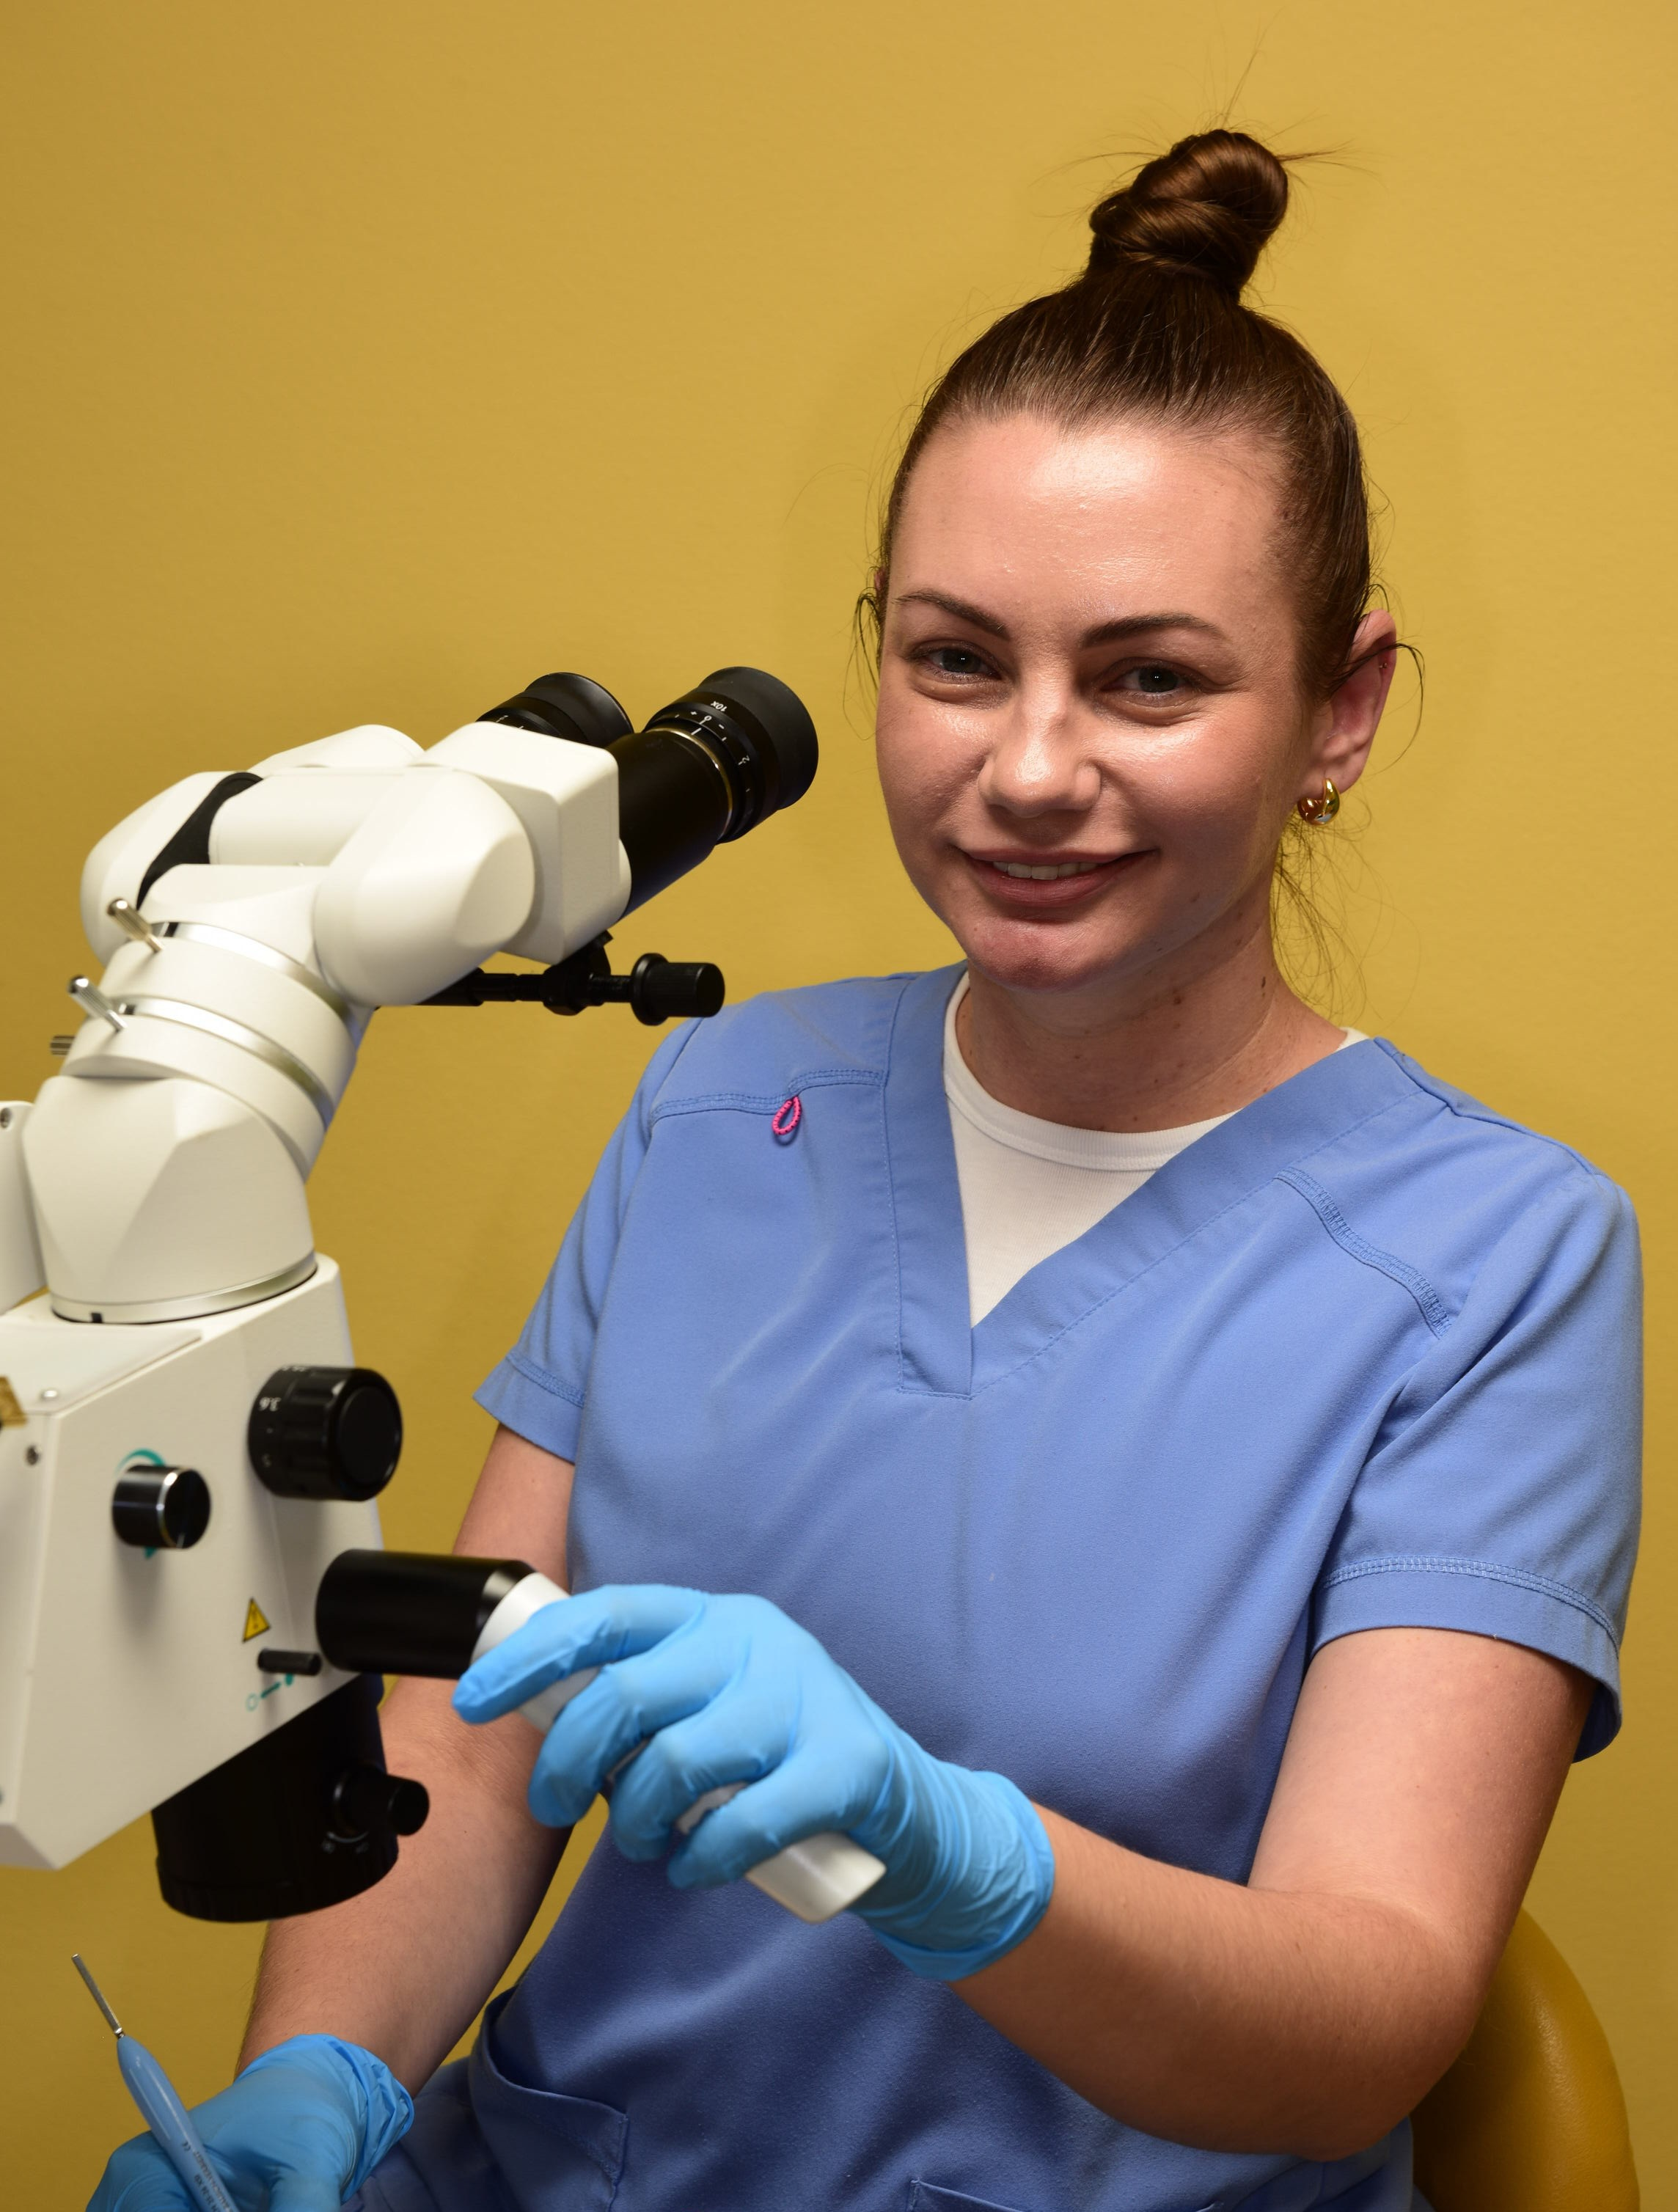
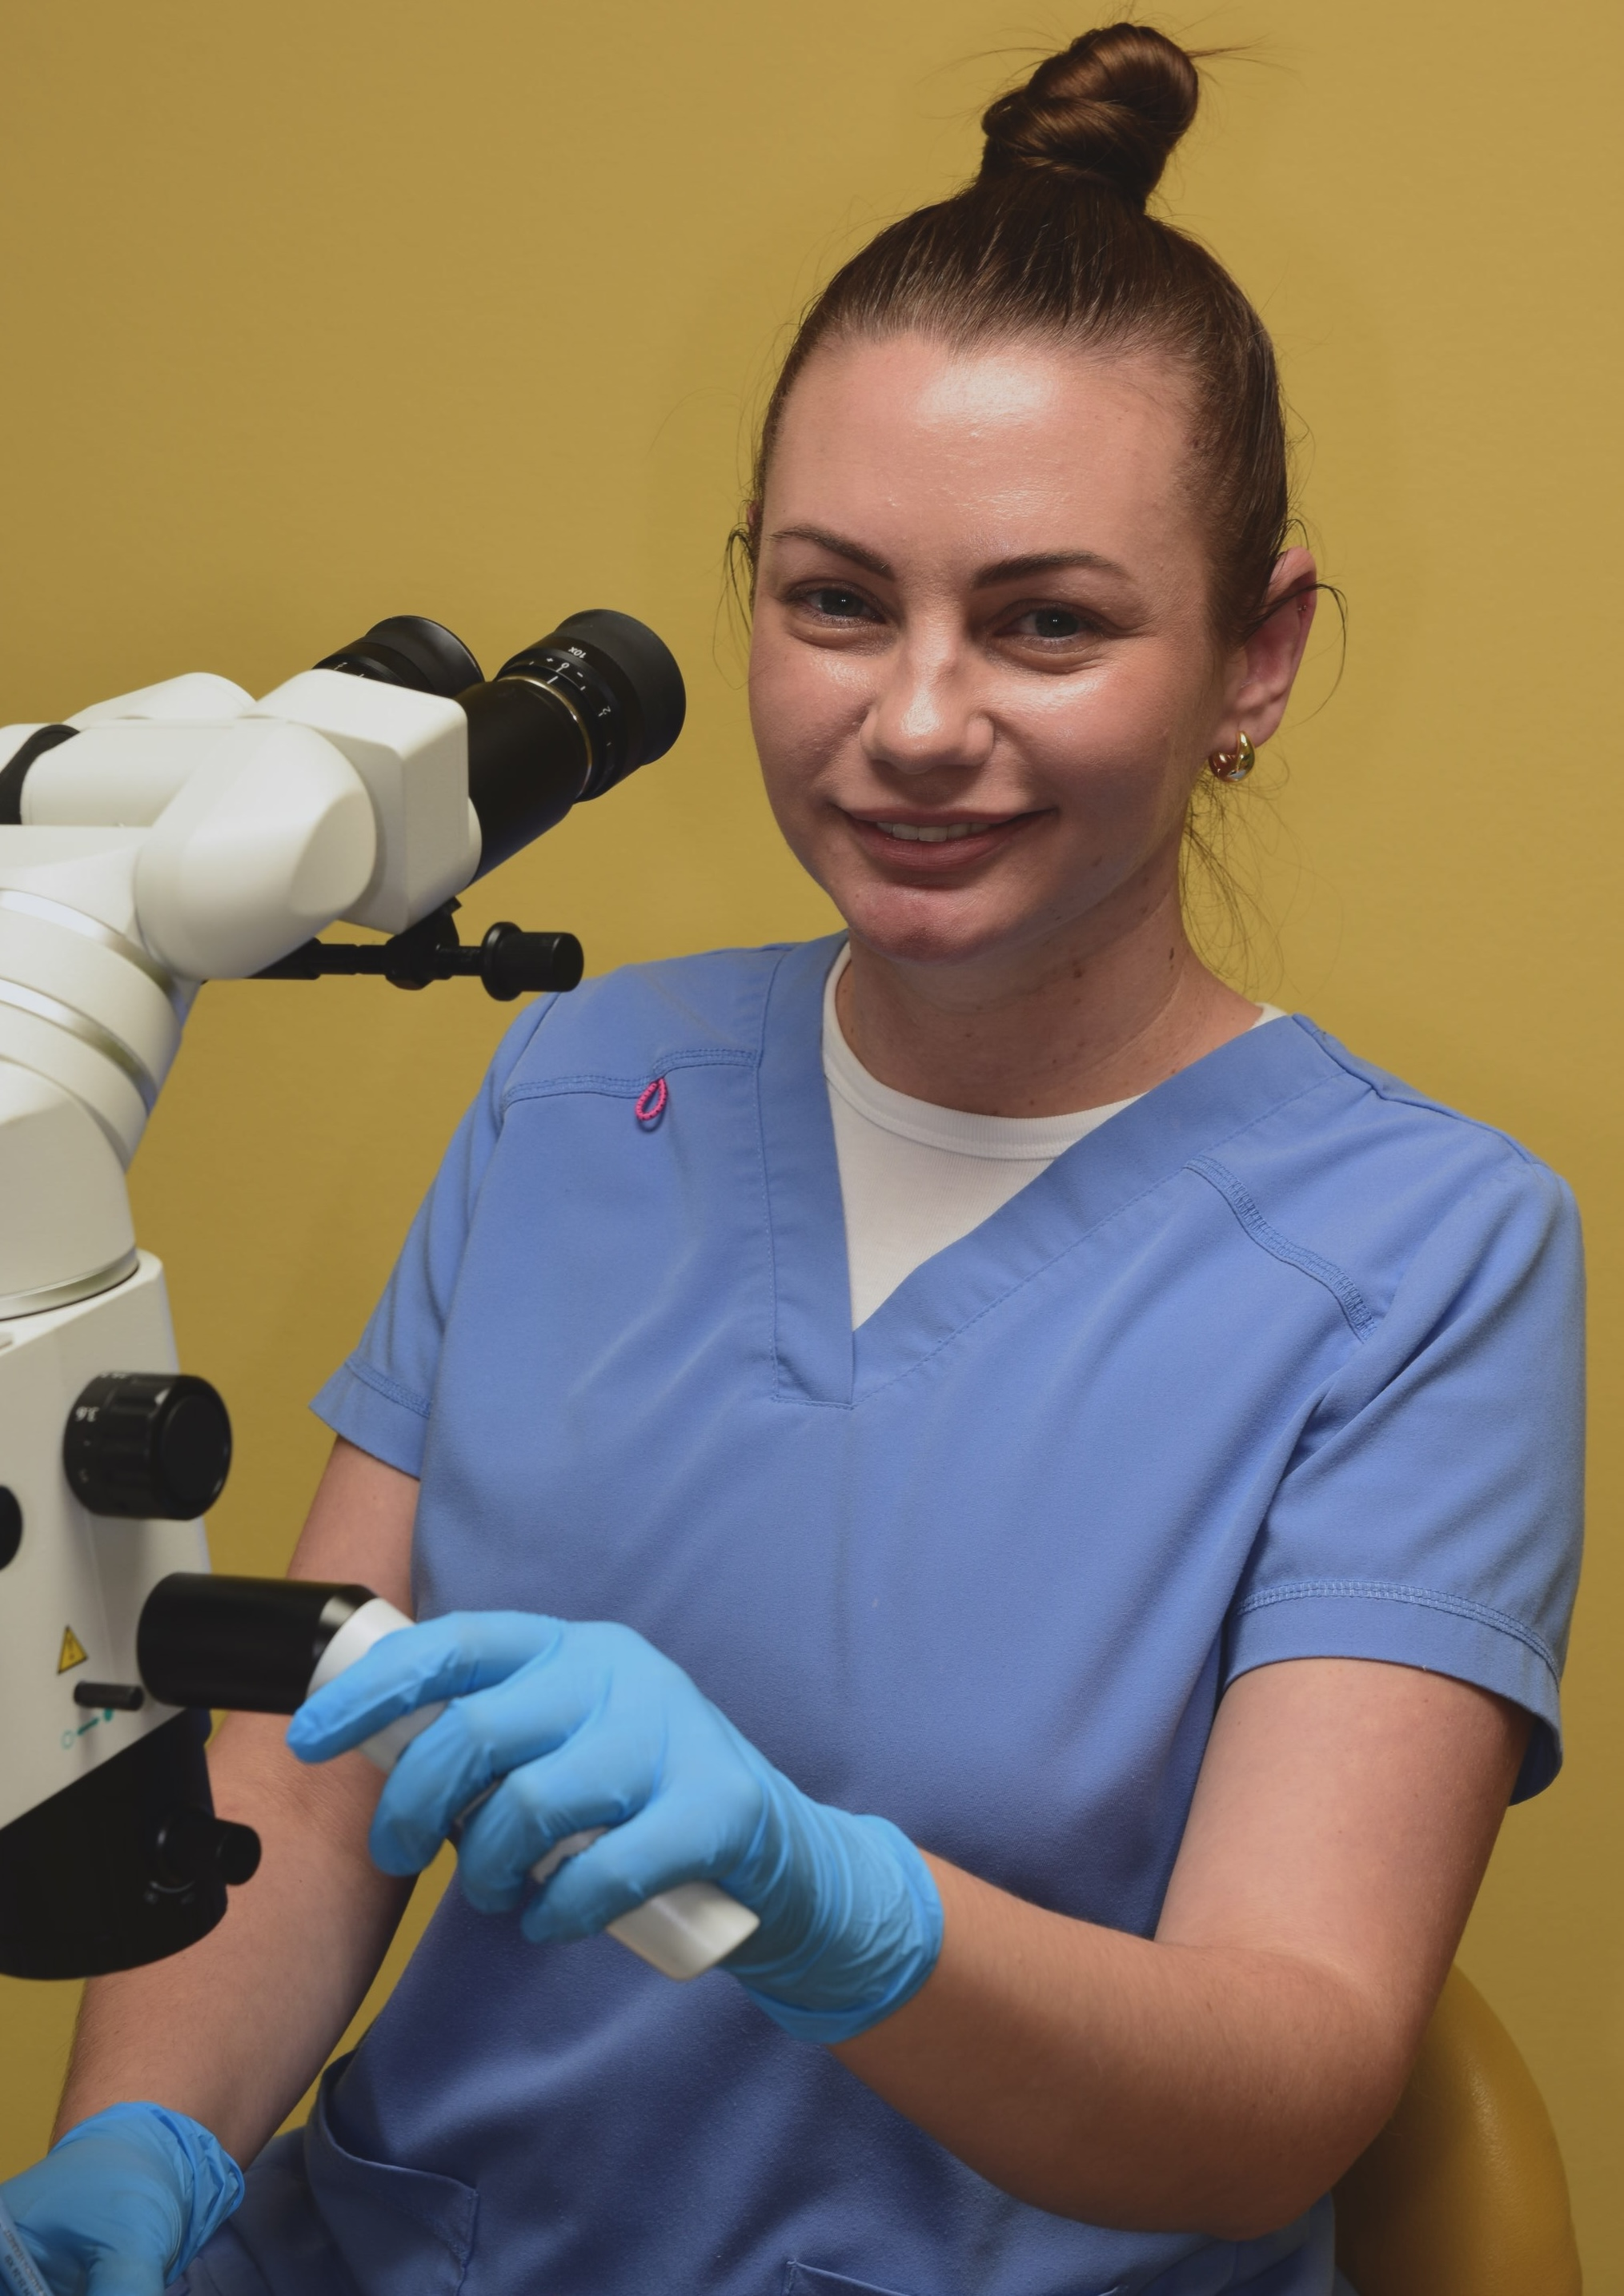
image_quality

diff --git a/src/app/services/ServicesPageClient.tsx b/src/app/services/ServicesPageClient.tsx
@@ -5,12 +5,12 @@ import Image from "next/image";
 import {CheckCircle, Phone} from "lucide-react";
 import {Button} from "@/components/ui/button";
 import {Card, CardContent} from "@/components/ui/card";
-import servicesImage from "@/components/images/services.webp";
+import servicesImage from "@/components/images/services.jpg";
 import general from "@/components/images/general.webp";
-import cosmetic from "@/components/images/cosmetic.webp";
+import cosmetic from "@/components/images/cosmetic.jpg";
 import paradent from "@/components/images/paradent.webp";
 import surgery from "@/components/images/surgery.webp";
-import orthodental from "@/components/images/orthodental.webp";
+import orthodental from "@/components/images/orthodental.jpg";
 import implant from "@/components/images/implant.webp";
 import prosthesis from "@/components/images/prosthesis.webp";
 
@@ -28,14 +28,15 @@ export default function ServicesPageClient() {
             treatments: [
                 "Професійна чистка",
                 "Пломбування зубів",
-                "Лікування кореневих каналів під мікроскопом",
-                "Переліковування раніше лікованих каналів",
+                "Лікування кореневих каналів",
+                "Переліковування раніше лікованих кореневих каналів",
+                "Використання стоматологічного мікроскопу",
             ],
         },
         {
             title: "Косметична стоматологія",
             description:
-                "Сучасні естетичні рішення для створення ідеальної усмішки — від відбілювання до трансформації.",
+                "Сучасні естетичні рішення для створення ідеальної усмішки: від відбілювання до повної трансформації.",
             image: cosmetic,
             treatments: [
                 "Відбілювання зубів",
@@ -47,60 +48,73 @@ export default function ServicesPageClient() {
         {
             title: "Ортодонтія",
             description:
-                "Вирівнювання зубів для дітей та дорослих за допомогою сучасних методів.",
+                "Ефективне та комфортне вирівнювання зубів дорослим і дітям завдяки сучасним методам.",
             image: orthodental,
             treatments: [
-                "Традиційні брекети",
-                "Самоліговані системи",
+                "Традиційні брекети, в тому числі самоліговані",
+                "Елайнери",
                 "Трейнери",
-                "Мікроімпланти",
+                "Хайрекси",
+                "Ортодонтичні мікроімпланти",
                 "Пластинки",
             ],
         },
         {
             title: "Хірургія порожнини рота",
             description:
-                "Безпечні втручання з турботою про комфорт пацієнта.",
+                "Безпечні хірургічні втручання з особливою увагою до вашого комфорту.",
             image: surgery,
             treatments: [
+                "Видалення ретинованих зубів",
                 "Видалення зубів мудрості",
                 "Пластика вуздечки язика і губ",
-                "Резекції і кістектомії",
-                "П'єзохірургія",
+                "Ясневі пластики",
+                "Резекції і кістектомії ",
+                "Використання п'єзотому",
             ],
         },
         {
-            title: "Пародонтологія",
+            title: "Лікування ясен, парадонтологія",
             description:
                 "Підтримуйте здоров’я ясен та гігієну порожнини рота.",
             image: paradent,
             treatments: [
-                "Професійна чистка",
-                "Під’яснева чистка",
-                "Кюретаж кишень",
-                "Лазерна терапія",
+                "Професійна гігієнічна чистка зубів",
+                "Складання парадонтологічної карти",
+                "Під'яснева чистка зубів з використанням гліцину",
+                "Кюретаж кишень з допомогою кюрет Грейсі",
+                "Використання стоматологічного лазера",
+                "Парадонтологічні операції",
+                "Диспансерний облік",
             ],
         },
         {
             title: "Протезування",
             description:
-                "Відновлення функціональності та естетики з використанням сучасних матеріалів.",
+                "Відновлення функціональності та повернення естетики і впевненості.",
             image: prosthesis,
             treatments: [
+                "Мікропротезування",
                 "Протезування на імплантах",
-                "Коронки e-max, цирконій",
-                "Мікропротези",
+                "Використання e-max, оксиду циркона",
+                "Адгезивна фіксація коронок, вінірів, вкладок",
+                "Попереднє планування протезування з можливістю візуалізації",
+                "Використання внутрішньоротового бездротового сканера Megit 700i",
             ],
         },
         {
             title: "Імплантація",
             description:
-                "Відновлення втрачених зубів без шкоди сусіднім, преміальні системи MIS.",
+                "Це дивовижна можливість знайти колись втрачене, відновити зубний ряд не псуючи сусідніх зубів, або викинути ваш знімний протез і повернути радість життя",
             image: implant,
             treatments: [
-                "Системи MIS V3, C1",
-                "Шаблони для точного встановлення",
-                "Остеопластика",
+                "Імлантаційна система преміального рівня MIS V3, або середнього MIS C1",
+                "Хірургічні шаблони для точного встановлення імплантів",
+                "Операції для збільшення об'єму кістки, матеріали фірми \"OsteoBiol\"",
+                "Використання п'єзотому",
+                "Використання борів \"Densah\"",
+                "Збільшення об'єму ясни",
+                "Створення зони прикріпленої кератинізованої ясни",
             ],
         },
     ];
@@ -139,9 +153,8 @@ export default function ServicesPageClient() {
                         <div className="text-4xl md:text-5xl lg:text-7xl font-bold leading-tight drop-shadow-lg">
                             <span className="block">Послуги</span>
                         </div>
-                        <p className="text-sm md:text-xl mt-2 leading-relaxed mb-8">
-                            Ми пропонуємо повний спектр стоматологічних послуг — від профілактики до складних операцій.
-                            Сучасне обладнання та досвід наших лікарів гарантують безпеку, ефективність і комфорт
+                        <p className="text-sm md:text-2xl mt-2 leading-relaxed mb-8">
+                            Сучасні технології, обладнання та досвід наших лікарів гарантують якість, безпеку й комфорт
                             кожного пацієнта.
                         </p>
                     </div>

diff --git a/src/app/about/AboutPageClient.tsx b/src/app/about/AboutPageClient.tsx
@@ -3,10 +3,10 @@
 import React, {useEffect, useState, useRef} from "react";
 import Image from "next/image";
 import {Card, CardContent} from "@/components/ui/card";
-import aboutImage from "@/components/images/about.webp";
-import Svetlana from "@/components/images/Viktoria.webp";
-import Olexander from "@/components/images/Olexander.webp";
-import Olga from "@/components/images/Olga.webp";
+import aboutImage from "@/components/images/about.jpg";
+import Svetlana from "@/components/images/Viktoria.jpg";
+import Olexander from "@/components/images/Olexander.jpg";
+import Olga from "@/components/images/Olga.jpg";
 
 export default function AboutPageClient() {
     const [heroVisible, setHeroVisible] = useState(false);
@@ -19,20 +19,20 @@ export default function AboutPageClient() {
             role: "Головний лікар і власник кліники",
             image: Olexander,
             specialties: ["Хірургія", "Ортопедія"],
-            bio: "Закінчив стомат факультет Донецького медичного університету, досвід, наполегливість іпостійне навчання.",
+            bio: "Закінчив стомат факультет Донецького медичного університету, досвід, наполегливість і постійне навчання.",
         },
         {
             name: "Ольга Щербан",
             role: "Ортодонт",
             image: Olga,
-            specialties: ["Дитяча стоматологія", "Ортодонтія"],
+            specialties: ["Дитяча стоматологія", "Корекція положення зубів дорослих і дітей"],
             bio: "Закінчила стомат факультет Донецького медичного університету, любить вирівнювати зуби і кататися на велосипеді. За сумісництвом, дружина головного лікаря.",
         },
         {
             name: "Юлія Химишинець",
-            role: "Щелепно-лицевий хірург",
+            role: "Парадонтолог, ендоентіст",
             image: Svetlana,
-            specialties: ["Парадонтолог", "Ендоентіст"],
+            specialties: ["Лікування ясен", "Терапія кореневих каналів під мікроскопом"],
             bio: "Закінчила стоматфакультет Ужгородського університету, полюбляє працювати під мікроскопом і відбілювати зуби.",
         },
     ];
@@ -89,21 +89,17 @@ export default function AboutPageClient() {
 
                 {/* Наша команда */}
                 <section id={'doctors'} ref={teamRef}
-                         className="py-8 md:py-24 flex w-full justify-center items-center bg-gradient-to-br from-lime-50 via-white to-green-50">
+                         className="py-8 md:py-16 flex w-full justify-center items-center bg-gradient-to-br from-lime-50 via-white to-green-50">
                     <div className="max-w-8xl flex flex-col items-center mx-auto md:gap-6 sm:px-6 px-8">
                         <div
-                            className={`text-center mb-8 transition-all duration-1000 ${teamVisible ? 'opacity-100 translate-y-0' : 'opacity-0 translate-y-10'}`}>
+                            className={`text-center transition-all duration-1000 ${teamVisible ? 'opacity-100 translate-y-0' : 'opacity-0 translate-y-10'}`}>
                             <h2 className="text-3xl md:text-5xl font-bold text-gray-900 mb-6">
                                 Познайомтеся з нашою
                                 <span className="text-lime-600"> командою</span>
                             </h2>
-                            <p className="text-lg text-gray-600 max-w-2xl mx-auto leading-relaxed">
-                                Наші досвідчені фахівці віддані наданню виняткової стоматологічної допомоги з ніжним та
-                                індивідуальним підходом.
-                            </p>
                         </div>
 
-                        <div className="grid mx-12 md:p-10 w-full md:grid-cols-2 xl:grid-cols-3 gap-8">
+                        <div className="grid mx-12 md:p-6 w-full md:grid-cols-2 xl:grid-cols-3 gap-8">
                             {teamMembers.map((member, i) => (
                                 <Card
                                     key={member.name}
@@ -111,12 +107,12 @@ export default function AboutPageClient() {
                                     style={{transitionDelay: `${i * 150}ms`}}
                                 >
                                     <div className="relative">
-                                        <div className="relative aspect-6/7 overflow-hidden">
+                                        <div className="relative aspect-3/4 overflow-hidden">
                                             <Image
                                                 fill
                                                 src={member.image}
                                                 alt={member.name}
-                                                className="w-full h-full object-cover"
+                                                className="w-full h-full object-top object-cover"
                                             />
                                         </div>
                                     </div>

diff --git a/src/components/ServicesPreview.tsx b/src/components/ServicesPreview.tsx
@@ -6,8 +6,8 @@ import {ArrowRight} from "lucide-react";
 import {Card, CardContent} from "@/components/ui/card";
 import {Button} from "@/components/ui/button";
 import Image from "next/image";
-import cosmetic from "./images/cosmetic.webp"
-import orthodental from "./images/orthodental.webp"
+import cosmetic from "./images/cosmetic.jpg"
+import orthodental from "./images/orthodental.jpg"
 import general from "./images/general.webp"
 
 const services = [
@@ -96,9 +96,6 @@ export default function ServicesPreview() {
                                         className="w-full h-full object-cover transform transition-transform"
                                     />
                                 </div>
-                                <div
-                                    className={`absolute inset-0 bg-gradient-to-br ${service.color} opacity-20`}
-                                ></div>
                             </div>
                             <CardContent className="p-6 group-hover:translate-y-[-4px] transition-all duration-500">
                                 <h3 className="text-xl font-bold text-gray-900 mb-3">

diff --git a/src/components/HeroSection.tsx b/src/components/HeroSection.tsx
@@ -2,8 +2,8 @@
 
 import React, {useState, useEffect} from "react";
 import Link from "next/link";
-import clinicImage from "./images/clinic.webp";
-import aboutImageFake from "./images/fake.webp";
+import clinicImage from "./images/clinic.jpg";
+import aboutImageFake from "./images/fake.png";
 
 import {ArrowRight, Phone} from "lucide-react";
 import {Button} from "@/components/ui/button";

diff --git a/src/app/contact/ContactPageClient.tsx b/src/app/contact/ContactPageClient.tsx
@@ -6,7 +6,7 @@ import mapboxgl from "mapbox-gl";
 import {MapPin, Phone, Mail, Clock} from "lucide-react";
 import {Card, CardContent} from "@/components/ui/card";
 import {Button} from "@/components/ui/button";
-import contactImage from "@/components/images/contacts.webp";
+import contactImage from "@/components/images/contacts.jpg";
 
 mapboxgl.accessToken = process.env.NEXT_PUBLIC_API_KEY ?? "";
 